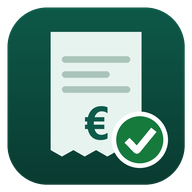
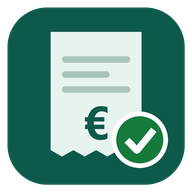
fix: icono con fondo sólido en vez de degradado
Mismo dibujo (el ticket con el visto), pero sin degradado: en Android,
dentro del margen que le añade el launcher, se notaba raro con tan
poco icono visible. También más margen en el maskable-512 (60% en vez
de 70%) para que no se recorte nada al enmascarar en círculo u otras
formas.

Changed region(s): [[0.0312, 0.6875, 0.9688, 0.9688]]

diff --git a/sw.js b/sw.js
@@ -1,7 +1,7 @@
 // Service worker de "InTeks Caja". Solo cachea el cascarón (HTML, manifest,
 // iconos) para que la app abra al instante; los datos de verdad (resumenApp,
 // datosIniciales, getEnvios…) van siempre a la red, nunca a caché.
-var VERSION = 'caja-resumen-v9';
+var VERSION = 'caja-resumen-v10';
 var ARCHIVOS = ['./', 'index.html', 'manifest.webmanifest',
   'icono-192.png', 'icono-512.png', 'icono-maskable-512.png'];
 
